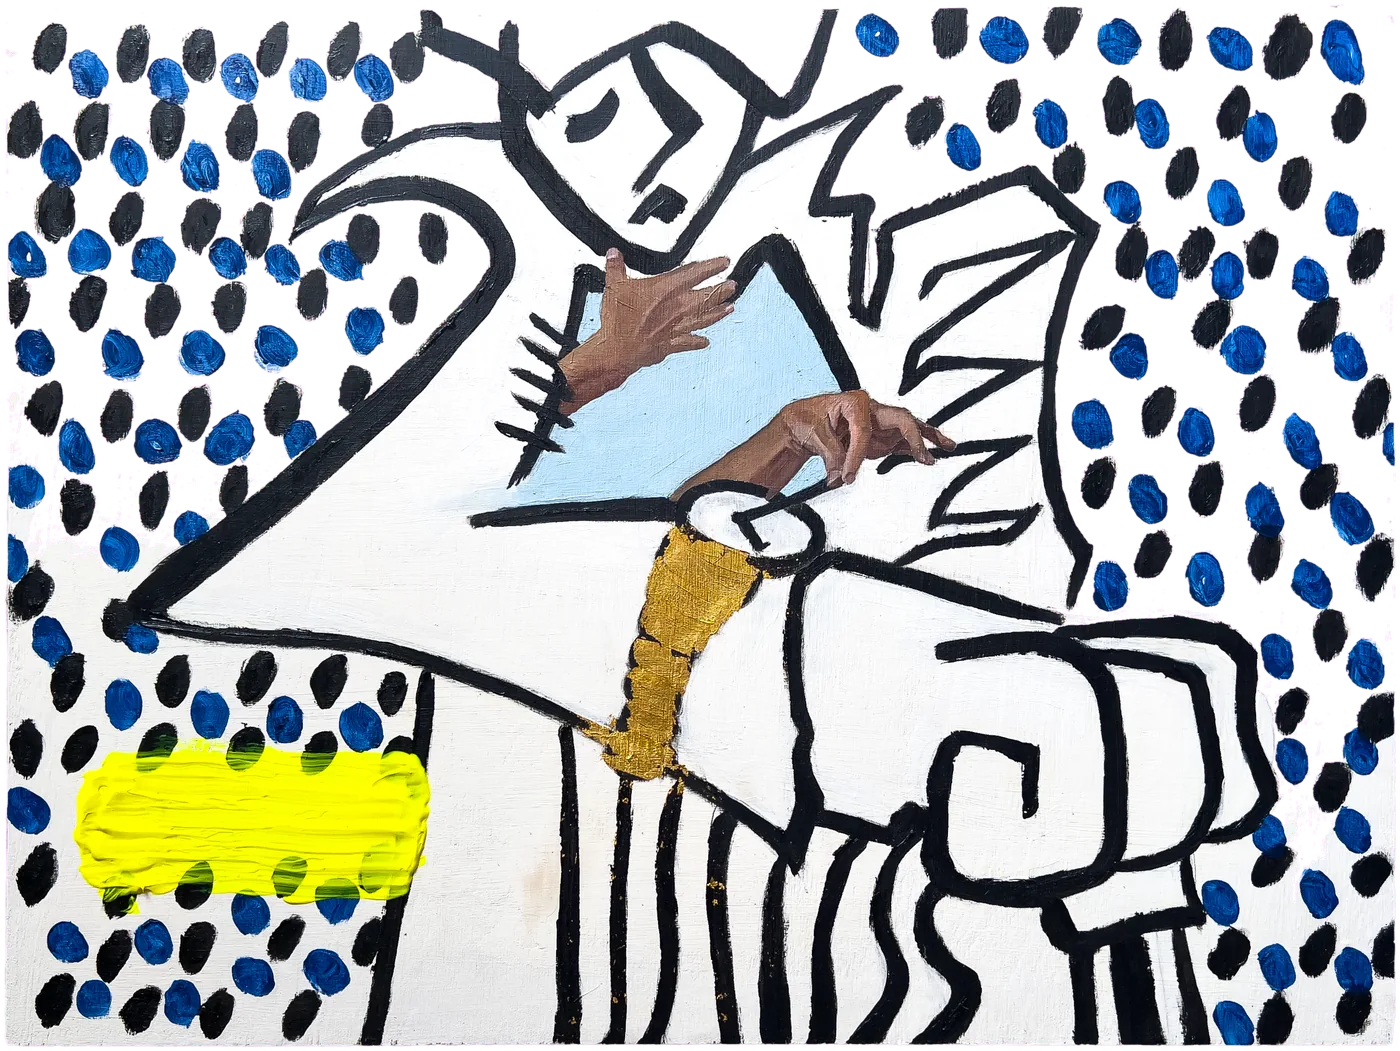
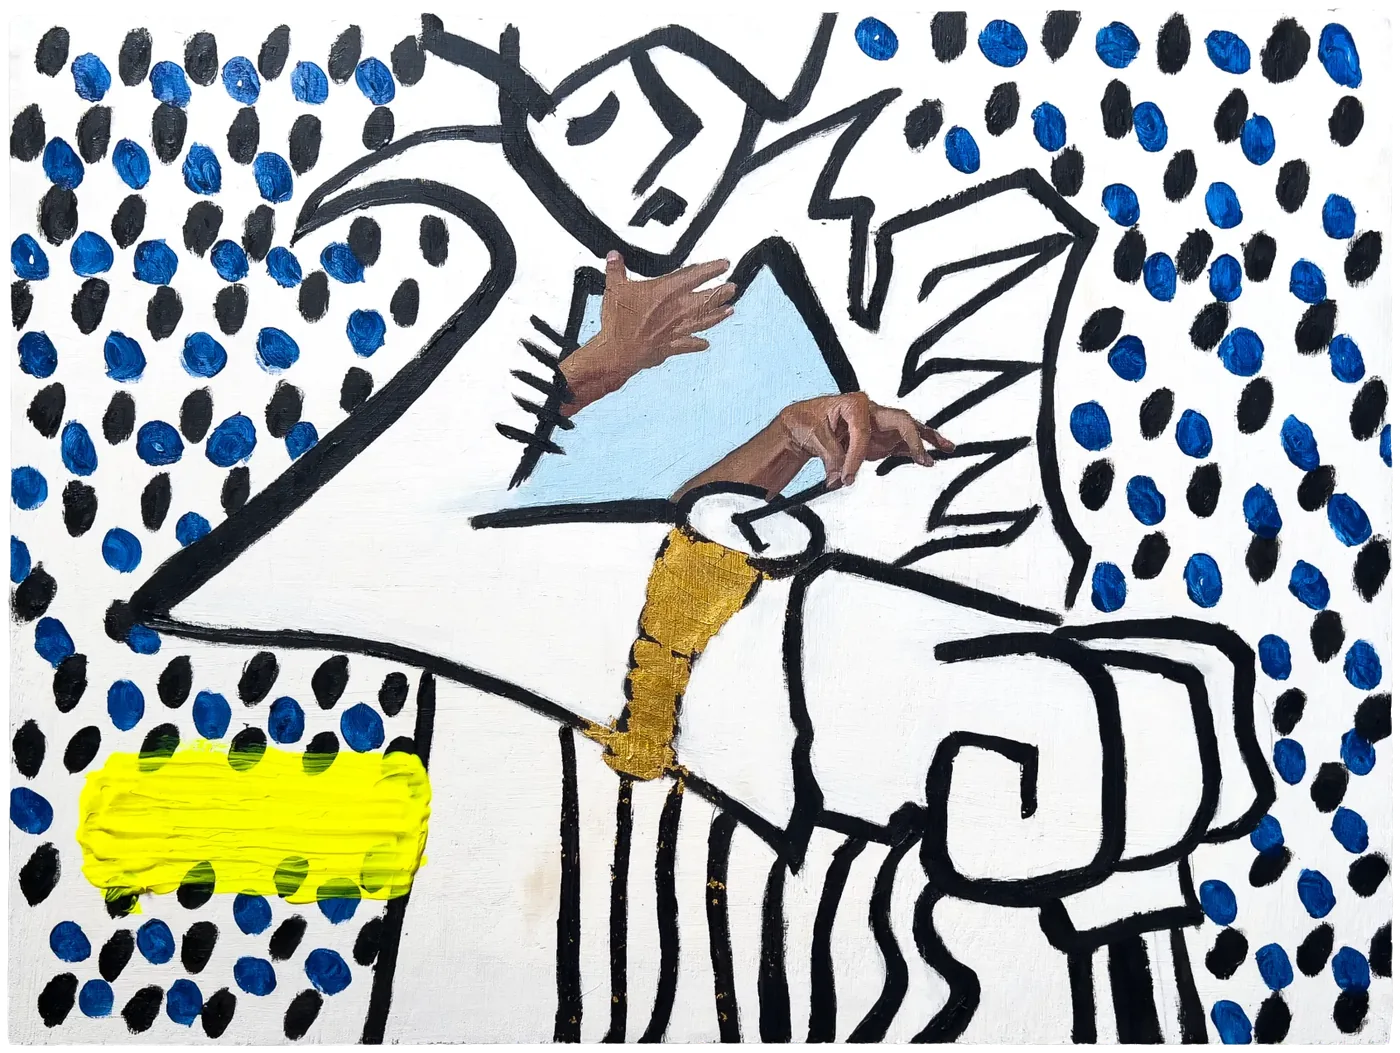
Fix the name breaking after grab, rebuild, knock; new Shadow of Divine Perfection cutout
Rebuild re-froze letters that were never released. Matter.js then saved
infinite mass for them, so the next knock sent them to NaN (the top-left
corner). Bodies are now only frozen or released when they are in the
other state, and a knock still in progress is cancelled by Rebuild.

diff --git a/index.html b/index.html
@@ -563,7 +563,7 @@
         <figure class="piece" style="--w:48">
           <button type="button" data-lb="image" data-group="paintings" data-src="assets/art/shadow-of-divine-perfection-full.webp"
                   data-caption="<b>Shadow of Divine Perfection</b> · about 36 × 48 in.">
-            <img class="hung" src="assets/art/shadow-of-divine-perfection.webp" width="1400" height="1051" loading="lazy" alt="A winged figure in black outline holding a gold-leafed column, on a field of blue and black dots with a yellow smear">
+            <img class="hung" src="assets/art/shadow-of-divine-perfection.webp" width="1400" height="1053" loading="lazy" alt="A winged figure in black outline holding a gold-leafed column, on a field of blue and black dots with a yellow smear">
           </button>
           <figcaption class="label"><b>Shadow of Divine Perfection</b>About 36 × 48 in.</figcaption>
         </figure>
@@ -926,7 +926,7 @@
   const reduce = matchMedia('(prefers-reduced-motion: reduce)').matches;
   const ink = getComputedStyle(document.documentElement).getPropertyValue('--ink').trim() || '#161616';
   const swatch = new Image(); swatch.src = 'assets/ui/swatch-blue.webp';
-  let engine, W = 0, H = 0, dpr = 1, font = '', items = [], drag = null, tween = null, visible = false, looping = false, dirty = true, lastW = 0;
+  let engine, W = 0, H = 0, dpr = 1, font = '', items = [], drag = null, tween = null, visible = false, looping = false, dirty = true, lastW = 0, pending = [];
 
   function build() {
     const sr = stage.getBoundingClientRect();
@@ -981,10 +981,17 @@
     return { ...o, body: b, home: { x: o.x, y: o.y }, free: false };
   }
 
+  // Matter.js saves a body's mass when it is frozen. Freezing a body that is already frozen
+  // overwrites that with infinite mass, and the letter flies off to NaN when it is next released,
+  // so only ever switch a body that is in the other state.
+  function freeze(body, on) {
+    if (body.isStatic !== on) Body.setStatic(body, on);
+  }
+
   function release(it, kick) {
-    if (it.free) return;
+    if (it.free || tween) return;
     it.free = true;
-    Body.setStatic(it.body, false);
+    freeze(it.body, false);
     Sleeping.set(it.body, false);
     if (kick) {
       const side = it.body.position.x < W / 2 ? 1 : -1;      // lean toward the middle, so it piles up
@@ -1005,15 +1012,17 @@
     if (tween) return;
     // bottom line first, so the lines above tumble onto loose letters instead of landing on a shelf
     const order = items.filter(i => !i.free).sort((a, b) => b.home.y - a.home.y || Math.random() - 0.5);
-    order.forEach((it, k) => setTimeout(() => release(it, true), reduce ? 0 : k * 45));
+    order.forEach((it, k) => pending.push(setTimeout(() => release(it, true), reduce ? 0 : k * 45)));
   }
 
   function rebuild() {
     if (drag) endDrag();
+    pending.forEach(clearTimeout); pending = [];        // a knock still in progress stops here
     const t0 = performance.now(), dur = reduce ? 0 : 900;
     items.forEach(it => {
       it.from = { x: it.body.position.x, y: it.body.position.y, a: ((it.body.angle + Math.PI) % (2 * Math.PI) + 2 * Math.PI) % (2 * Math.PI) - Math.PI };
-      Body.setStatic(it.body, true);
+      freeze(it.body, true);
+      Body.setVelocity(it.body, { x: 0, y: 0 }); Body.setAngularVelocity(it.body, 0);
     });
     tween = { t0, dur };
     wake();
@@ -1087,7 +1096,7 @@
   addEventListener('resize', () => {
     if (Math.abs(stage.getBoundingClientRect().width - lastW) < 2) return;
     lastW = stage.getBoundingClientRect().width;
-    endDrag(); tween = null; build(); wake();
+    endDrag(); tween = null; pending.forEach(clearTimeout); pending = []; build(); wake();
   });
   (document.fonts ? document.fonts.ready : Promise.resolve()).then(() => {
     lastW = stage.getBoundingClientRect().width;
